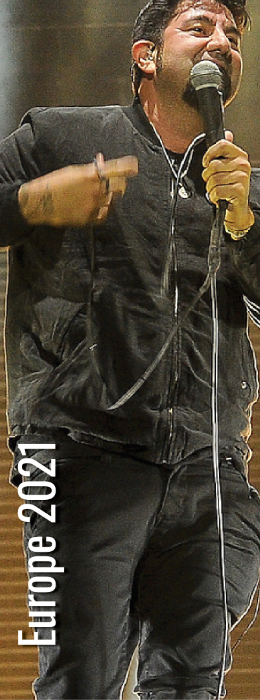
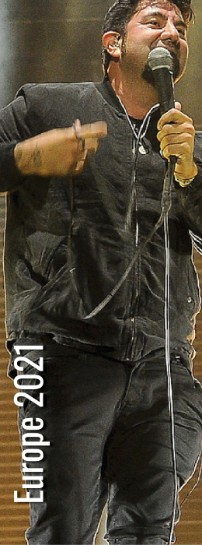
Changes Made
Made: 
-Contact Page footer and random box fixed
-Tour page images and panel were resized/adjusted

Needs:
-Gif needs to be resized
-Tour panel texted needs to be aligned in rows for readability 
-div classes to be made for iPad and iPhone sizes for tour page

diff --git a/css/touraccordion.css b/css/touraccordion.css
@@ -56,8 +56,8 @@
     border-style: solid;
     border-width: 0px;
     flex-direction: row;
-    height: 700px;
-} 
+    height: 545px;
+}
 
 .accordion-title,
 .accordion-select  {
@@ -76,40 +76,49 @@
 .accordion-title:not(:nth-last-child(2))::after {
     border-bottom-color: transparent;
     border-right-color: rgb(234, 234, 234);
-} 
+}
 
 .accordion-select:hover + .accordion-title,
 .accordion-select:checked + .accordion-title {
     background-color: #ffffff;
-} 
+}
 
- .accordion-title span  {	
+ .accordion-title span  {
     transform: rotate(-90deg);
     -ms-writing-mode: lr-bt;
     filter: progid:DXImageTransform.Microsoft.BasicImage(rotation=3);
     padding-bottom: 50px;
     padding-top: 50px;
     line-height: 100px;
-} 
+}
 
 .accordion-content {
     background-color: #1E1E1E;
     color: #7f8787;
-    height: 700px;
+    height: 545px;
     margin-bottom: -600px;
     margin-right: calc(-1 * calc(100% - 300px));
     padding: 30px;
     width: calc(100% - 300px);
-} 
+}
 
 #blue{
     background-image: url('../img/NA_tour.jpg');
+    background-repeat: no-repeat;
+    background-size: cover;
+    background-position: center;
 }
 
 #yellow{
     background-image: url('../img/Europe_tour.jpg');
+    background-repeat: no-repeat;
+    background-size: cover;
+    background-position: center;
 }
 
 #green{
     background-image: url('../img/Asia_tour.jpg');
+    background-repeat: no-repeat;
+    background-size: cover;
+    background-position: center;
 }

diff --git a/css/main.css b/css/main.css
@@ -233,11 +233,12 @@ p{
   flex-direction: row;
 }
 
-.contacform{
+.contactform{
   width: 40%;
   margin: 15px;
   position: relative;
   left: 5%;
+  border: 0;
 }
 
 .vl{
@@ -307,7 +308,7 @@ footer{
   justify-content: center;
   flex-direction: column;
   margin: 0px;
-  height: 150px;
+  height: 90px;
   width: 100%;
   background-color: #979797;
   position: absolute;
@@ -359,7 +360,7 @@ left: 5%;
   font-size: 12px;
   color: #fff;
   border: none;
-  text-align: left;
+  text-align: center;
 }
 
 /* End Accordion Content */
@@ -473,6 +474,7 @@ nav ul{
   .Contact_content{
     height: auto;
     flex-direction: column;
+    border: none;
   }
 
   .vl{

diff --git a/Contact.html b/Contact.html
@@ -40,8 +40,8 @@
 </div>
 
   <section class="Contact_content">
-    <div class="contacform">
-    <fieldset>
+    <div class="contactform">
+    <form>
     <input type="Email" id="Email" value="Email">
   <br>
   <br>
@@ -52,7 +52,7 @@
   <br>
   <br>
     <input value="submit" id="SubmitForm">
-</fieldset>
+</form>
 </div>
 
 <div class="vl"></div>
